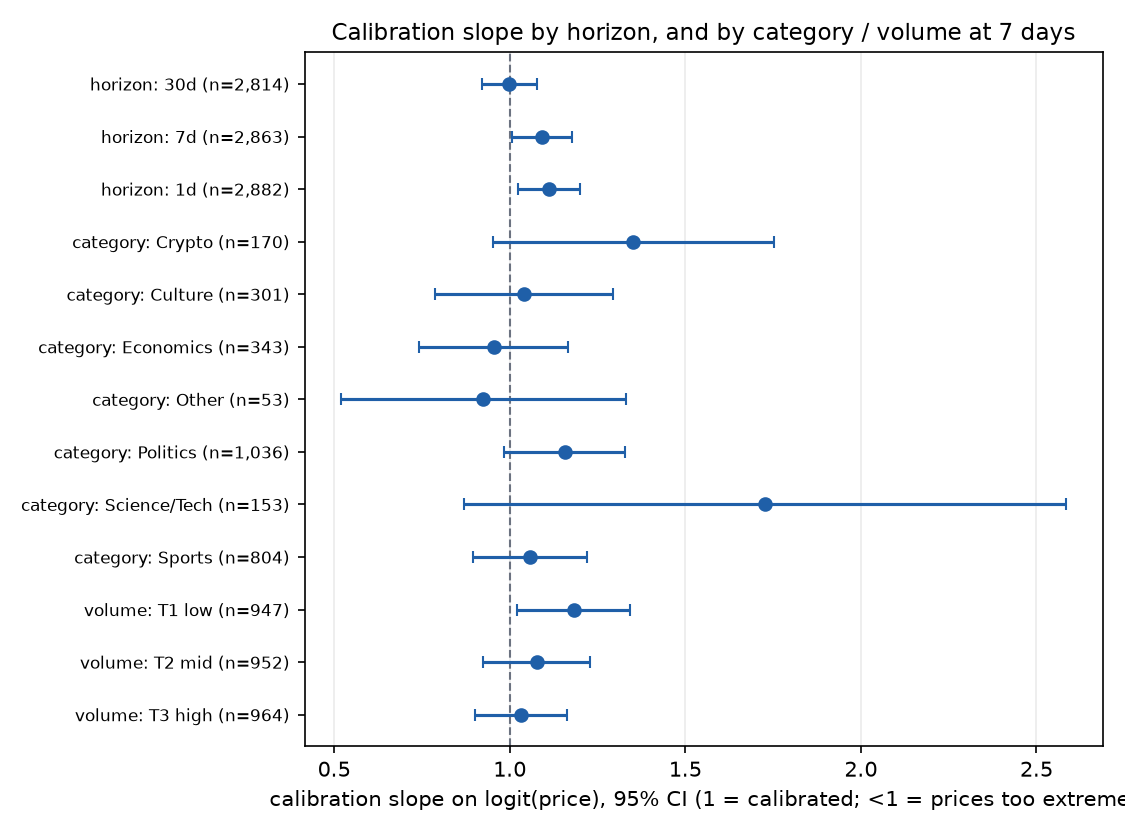
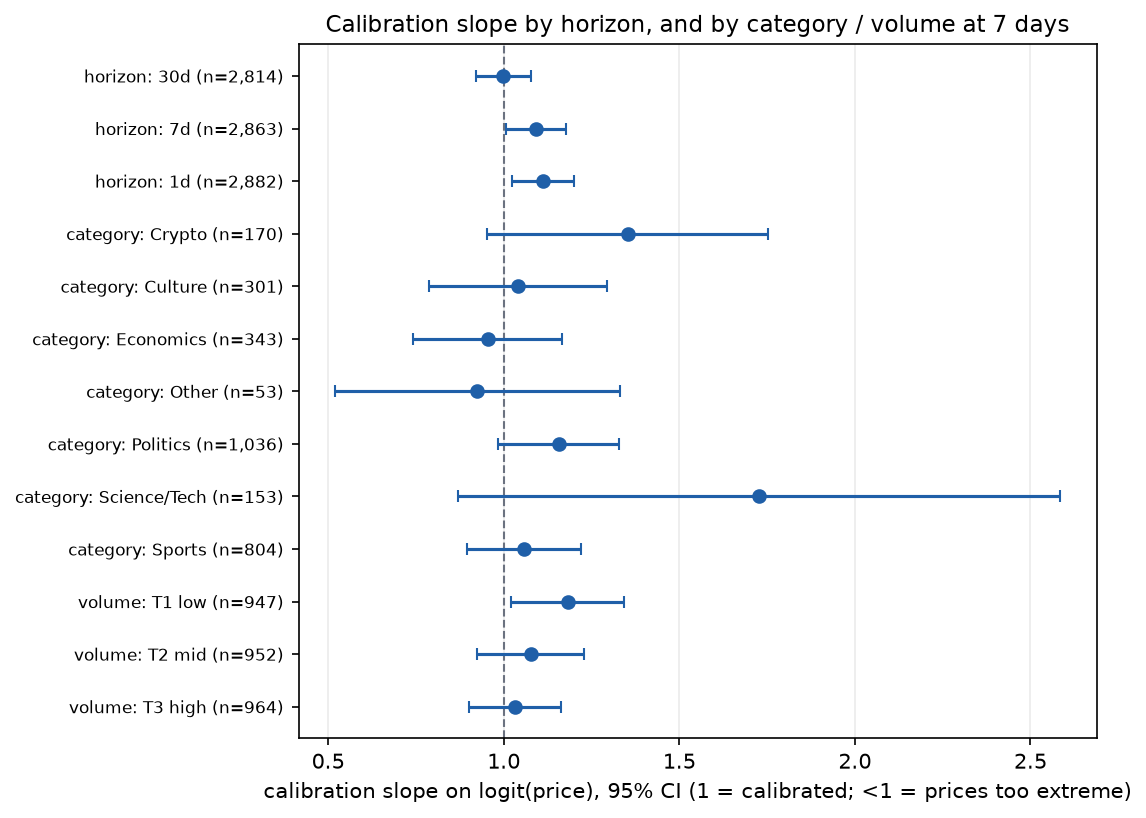
Stop the figure axis labels from being clipped

Changed region(s): [[0.0, 0.0, 1.0, 0.978], [0.5289, 0.4584, 0.56, 0.489]]

diff --git a/src/pmcal/analyze.py b/src/pmcal/analyze.py
@@ -158,7 +158,7 @@ def fig_calibration(df: pd.DataFrame, path: Path) -> None:
     axes[0].legend(loc="upper left", fontsize=8, frameon=False)
     fig.suptitle("Resolved Polymarket binary markets: calibration by horizon", fontsize=12)
     fig.tight_layout()
-    fig.savefig(path, dpi=150)
+    fig.savefig(path, dpi=150, bbox_inches="tight")
     plt.close(fig)
 
 
@@ -182,7 +182,7 @@ def fig_slopes(tables: dict[str, pd.DataFrame], path: Path) -> None:
     ax.set_title("Calibration slope by horizon, and by category / volume at 7 days", fontsize=11)
     ax.grid(axis="x", alpha=0.25)
     fig.tight_layout()
-    fig.savefig(path, dpi=150)
+    fig.savefig(path, dpi=150, bbox_inches="tight")
     plt.close(fig)
 
 
@@ -212,7 +212,7 @@ def fig_strategy(results: dict, split_dt: str, path: Path) -> None:
         ax.legend(fontsize=8, frameon=False)
     fig.autofmt_xdate()
     fig.tight_layout()
-    fig.savefig(path, dpi=150)
+    fig.savefig(path, dpi=150, bbox_inches="tight")
     plt.close(fig)
 
 
